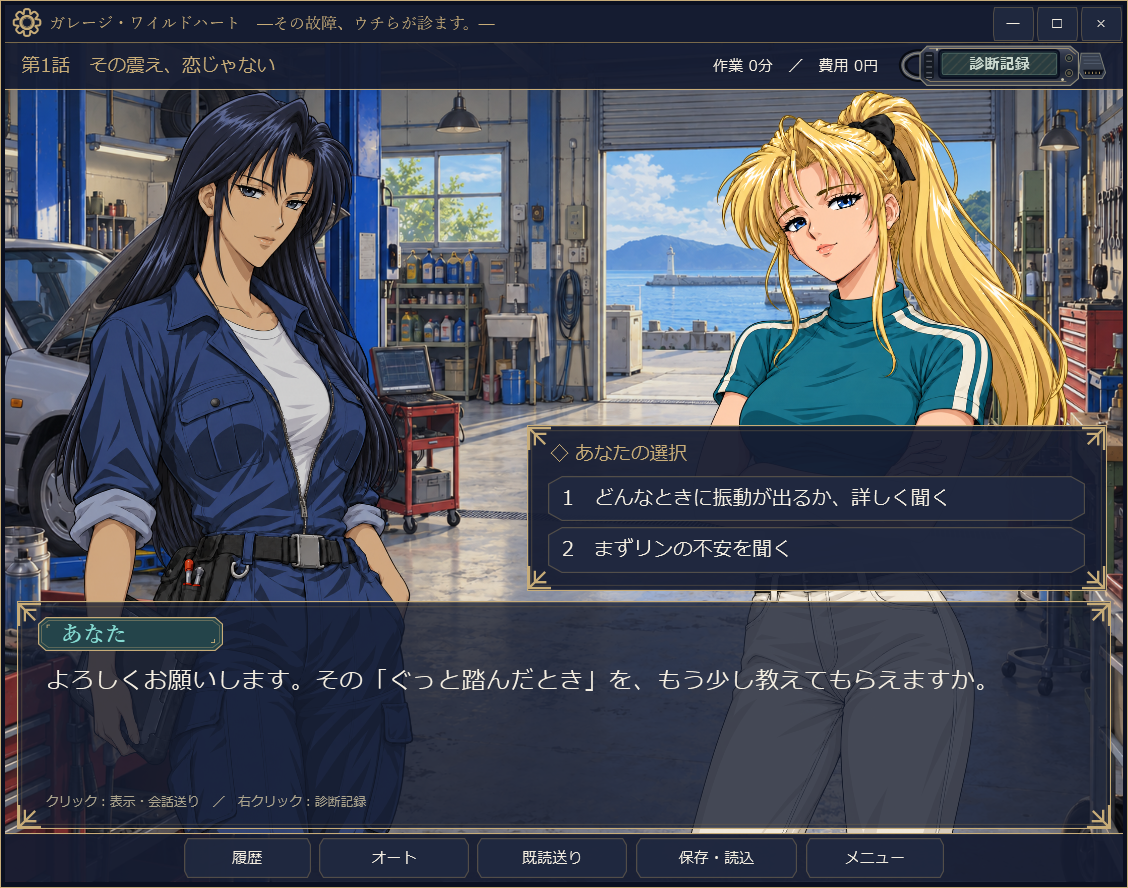
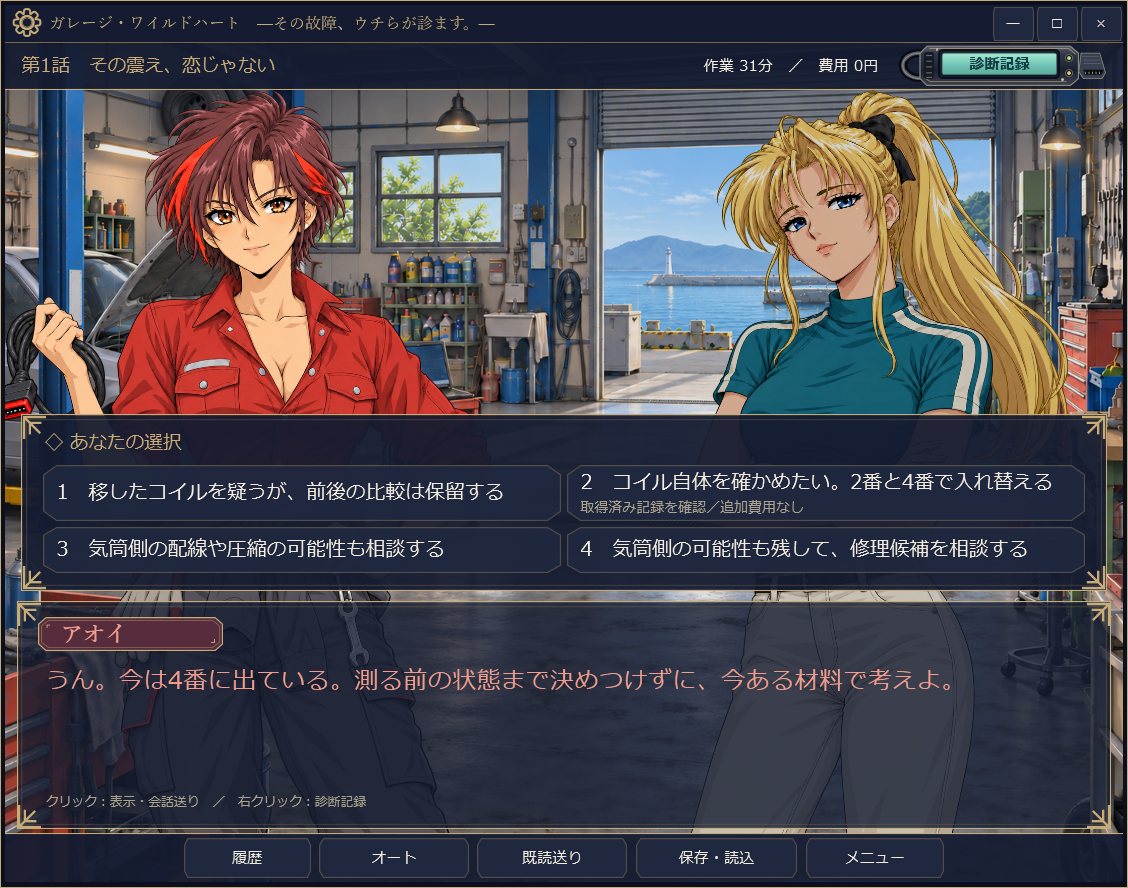
Publish v1.10.33 repair notebook and title update [skip ci] [skip actions]

diff --git a/README.md b/README.md
@@ -12,14 +12,14 @@
 
 **Windows 64bit版 / 日本語 / オフラインで遊べます。**
 
-- **[ゲームをダウンロード（v1.10.32・ZIP・約96 MB）](https://github.com/mezon-web/GarageWildHeart-Releases/releases/download/v1.10.32/GarageWildHeart-1.10.32-win-x64.zip)**
-- [遊び方](遊び方.md) · [更新内容](https://github.com/mezon-web/GarageWildHeart-Releases/releases/tag/v1.10.32)
+- **[ゲームをダウンロード（v1.10.33・ZIP・約96 MB）](https://github.com/mezon-web/GarageWildHeart-Releases/releases/download/v1.10.33/GarageWildHeart-1.10.33-win-x64.zip)**
+- [遊び方](遊び方.md) · [更新内容](https://github.com/mezon-web/GarageWildHeart-Releases/releases/tag/v1.10.33)
 
 ![ガレージ・ワイルドハートのタイトル画面](images/title.png)
 
 ## 今回の更新
 
-会話を進めるときの保存処理を軽くし、キャラ紹介や背景を一通り見たあとのメモリ増加を抑えました。音質を保った圧縮でZIPを約103MBから約96MBへ縮小しています。新しいガレージ内外の背景も収録しました。
+修理候補の右上からノートを開き、証拠を読み返して同じ候補へ戻れるようにしました。診断ノートの配置とコイルの位置表示も整理し、タイトル画像を更新しています。
 
 ## どんなゲーム？
 
@@ -39,21 +39,27 @@
 
 ### 会話と選択肢
 
-症状を詳しく聞くか、まず相手の不安に耳を傾けるか。会話を通じて、お客さんと愛車のことを知っていきます。
+気になる手がかりを選び、何を確かめるかを先輩たちに相談します。お客さんの不安や、仲間のひと言への返し方にも選択肢があります。
 
-![症状の聞き取り方を選ぶ会話画面](images/dialogue-choices.png)
+![調べた内容をもとに次の方針を相談する会話画面](images/dialogue-choices.png)
 
 ### 診断と波形の比較
 
-止まっているときと、アクセルを踏んだとき。グラフを並べて、どこに違いがあるかを仲間と一緒に確かめます。
+同じ条件で、部品を動かす前と後。グラフを並べて、どこに違いがあるかを仲間と一緒に確かめます。
 
-![アイドル時と加速時の失火回数を比較する診断画面](images/diagnostic-waveforms.png)
+![コイル入替前後の失火回数を比較する診断画面](images/diagnostic-waveforms.png)
 
 ### 証拠を整理するノート
 
 「さっき分かったことは何だったっけ？」と思ったら、ノートを開いてみましょう。調べた結果を読み返しながら、次に何をするか考えられます。
 
 ![取得した証拠と観察内容を読み返す診断ノート](images/diagnostic-notebook.png)
+
+### 証拠を見ながら修理を相談
+
+部品の役割と費用を見比べ、気になったら右上の「ノートを見る」から証拠を確認できます。ノートを閉じても、会話や修理は進みません。
+
+![部品の役割と費用を見比べる修理候補の画面](images/repair-choice.png)
 
 ## 遊びはじめるには
 
@@ -74,8 +80,8 @@
 ## 詳しい案内
 
 - [遊び方・保存データ・ファイルの確認](遊び方.md)
-- [v1.10.32の更新内容](release-notes/v1.10.32.md) · [過去の配布版](https://github.com/mezon-web/GarageWildHeart-Releases/releases)
-- [動作確認について](検証.md) · [ZIPのSHA-256](https://github.com/mezon-web/GarageWildHeart-Releases/releases/download/v1.10.32/GarageWildHeart-1.10.32-win-x64.zip.sha256)
+- [v1.10.33の更新内容](release-notes/v1.10.33.md) · [過去の配布版](https://github.com/mezon-web/GarageWildHeart-Releases/releases)
+- [動作確認について](検証.md) · [ZIPのSHA-256](https://github.com/mezon-web/GarageWildHeart-Releases/releases/download/v1.10.33/GarageWildHeart-1.10.33-win-x64.zip.sha256)
 
 本作の車両や診断値は架空のものです。実車の整備には使用しないでください。
 

diff --git a/検証.md b/検証.md
@@ -1,3 +1,19 @@
+# v1.10.33の確認
+
+Windows上で、作成したZIPを別フォルダーへ展開し、起動から保存・再開まで確認しました。Core 1,314件、解凍した実WPFアプリ15系統 6,310件の自動検証が成功しています。
+
+修理候補から「ノートを見る」を開いても、会話・時間・費用・履歴は進みません。「修理候補へ戻る」で同じ候補へ戻れます。全3話の修理候補とノートを、通常／最小サイズ、文字サイズ通常／大、100／150／200％相当で確認しています。採用された新しいタイトル画像も配布版で確認しました。
+
+梱包素材40件とmanifest 8件のサイズ・SHA-256は元のデータと一致。配布ファイルの個人情報検査は検出0、通常の保存・設定3ファイルも不変でした。専用Windowsデスクトップを使い、操作中の画面の切替は行っていません。
+
[1 lines of base64/hex data omitted]
+
+物理マウス・実モニターのDPI設定変更・全分岐の人による通読・長時間の耐久試験は未実施です。GitHub Actionsは使用していません。
+
+匿名ダウンロードの照合は公開後に追記します。
+
+---
+
 # v1.10.32の動作確認
 
 2026年11月4日。会話と診断の機能を保ちながら、画像のメモリ保持、保存、結果の読み返し、音声の圧縮を見直しました。

diff --git a/release-notes/v1.10.33.md b/release-notes/v1.10.33.md
@@ -1,0 +1,13 @@
+# GarageWildHeart v1.10.33
+
+2026年11月5日。
+
+修理の相談画面を整理しました。候補の上に並んでいた検査結果の文章を外し、右上の「ノートを見る」から、必要なときに証拠を読み返せます。「修理候補へ戻る」で、会話や判断を進めず、同じ候補の画面へ戻れます。全3話に反映しています。
+
+診断ノートでは、見立ての振り返りを問いの横に小さく配置。依頼の詳細は右端へ揃え、会話へ戻るボタンとの間隔を広げました。
+
+第1話のコイル候補は「入庫時に2番に付いていたコイル」と表示し、現在の装着位置を2番／4番で区別します。部品の役割説明・修理費用・修理対象・採点は維持しています。タイトル画像は、アオイが小さな木箱に浅く座る、採用されたイラストへ更新しました。
+
+Windows 64bit向けです。ZIPをすべて展開し、`GarageWildHeart.exe` を開いてください。**.NETは同梱していません。[.NET 10 Desktop Runtime x64](https://dotnet.microsoft.com/ja-jp/download/dotnet/10.0)が必要です。** インストール後はオフラインで遊べます。`GameData` フォルダーも実行ファイルと同じ場所に置いてください。
+
+保存形式は4のままです。シナリオと音楽は変更していません。
